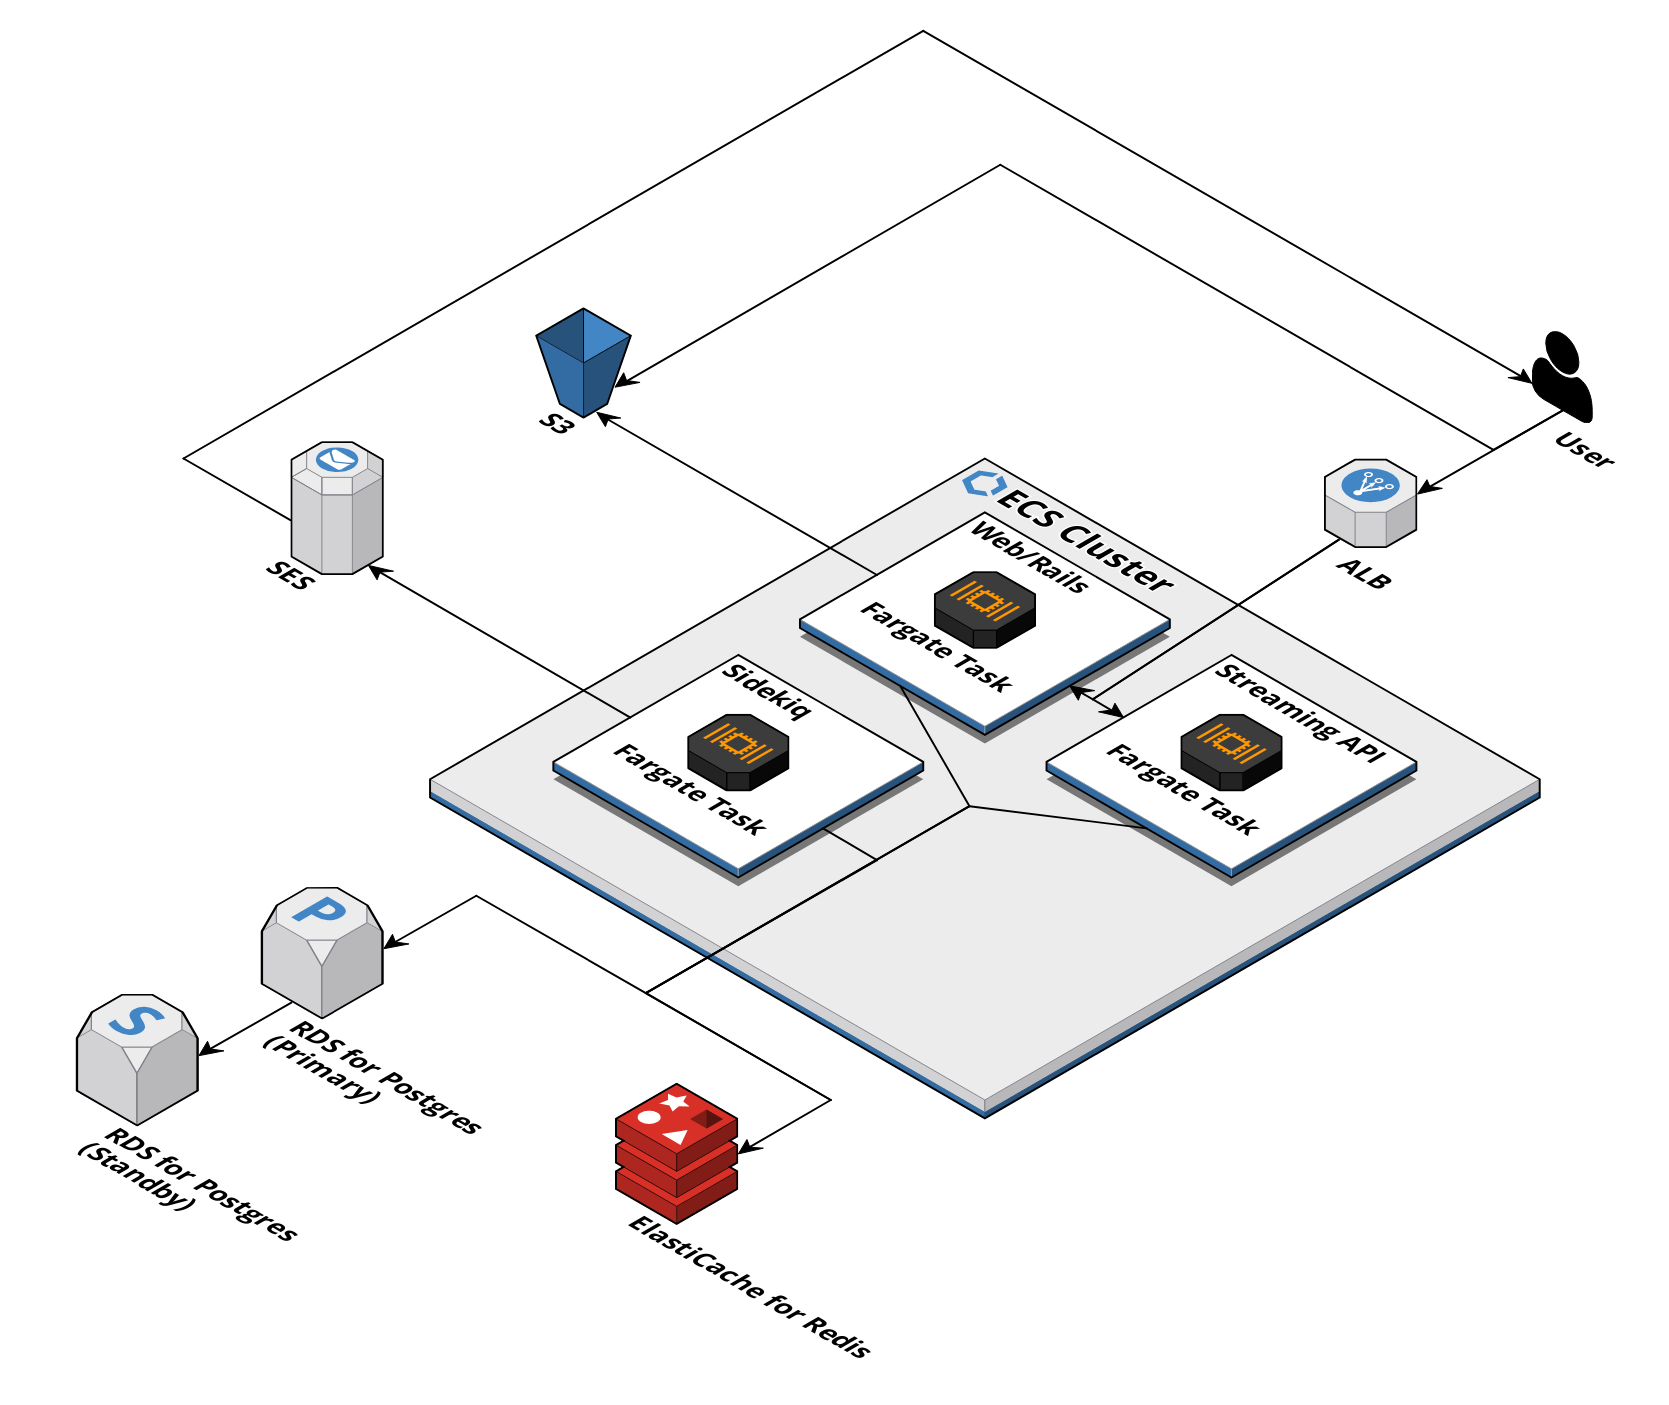
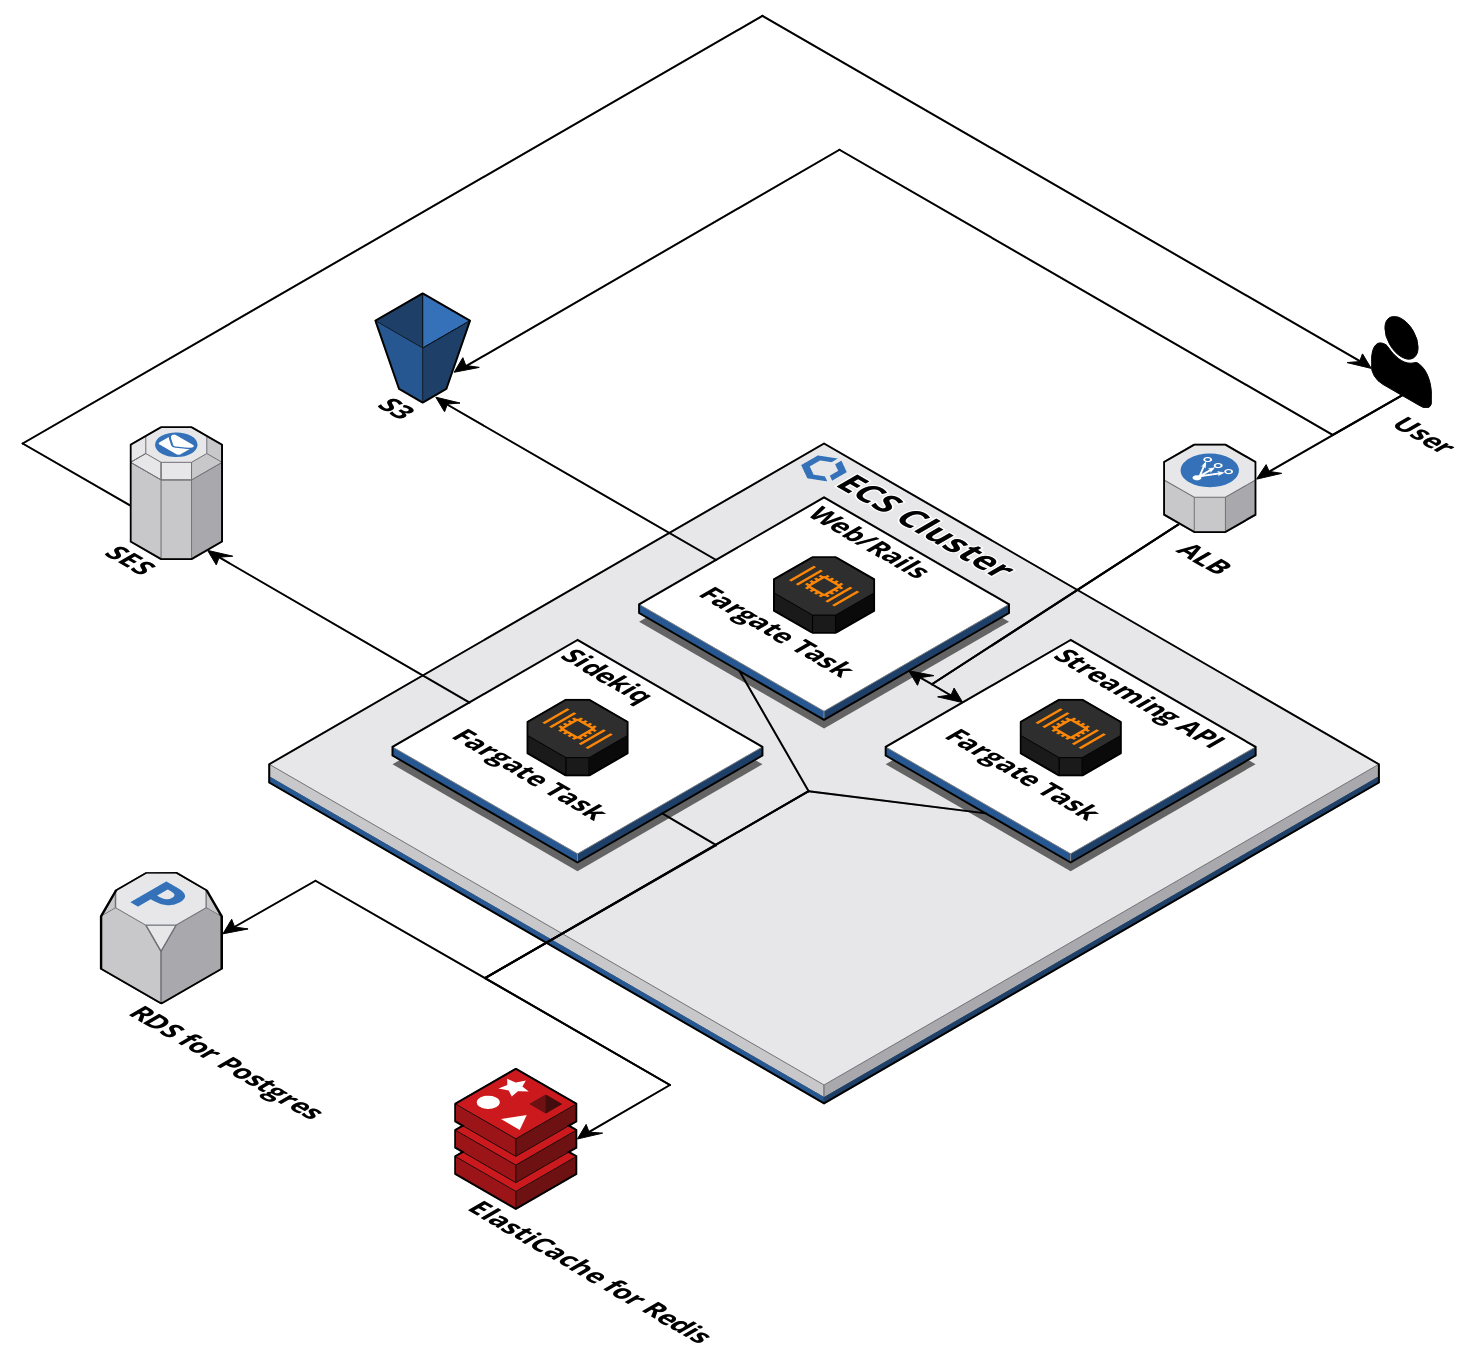
lower costs and improve sidekiq stability (#16)
* lower costs and improve sidekiq stability

* doc

diff --git a/README.md b/README.md
@@ -103,13 +103,13 @@ Estimating costs for AWS is not trivial. My estimation assumes a small Mastodon 
 
 | Service | Configuration | Monthly Costs (USD) |
 | ---------- | ------------- | ----------------------------: |
-| ECS + Fargate | 3 Spot Tasks x (0.25 CPU + 0.5 GB) | $11.56 |
-| RDS for Postgres | t4g.micro (Multi-AZ) | $23.61 |
-| ElastiCache for Redis | t4g.micro (Single-AZ) | $11.52 |
+| ECS + Fargate | 3 Spot Tasks | $12.08 |
+| RDS for Postgres | t4g.micro | $12.10 |
+| ElastiCache for Redis | t4g.micro | $11.52 |
 | ALB | Load Balancer Hours | $16.20 |
 | S3 | 25 GB + requests | $0.58 |
 | Route 53 | Hosted Zone | $0.50 |
-| **Total** | | $63.97 |
+| **Total** | | $52.97 |
 
 Please note that the cost estimation is not complete and costs differ per region. For example, the estimation does not include network traffic, CloudWatch, SES, and domain. [Monitor your costs](https://docs.aws.amazon.com/cost-management/latest/userguide/budgets-create.html)!
 
